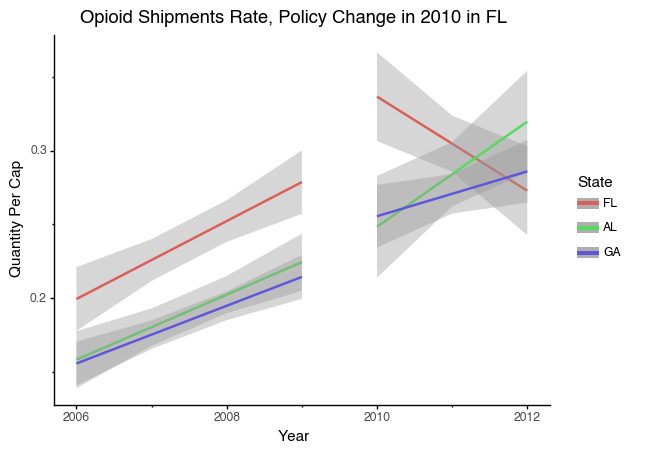
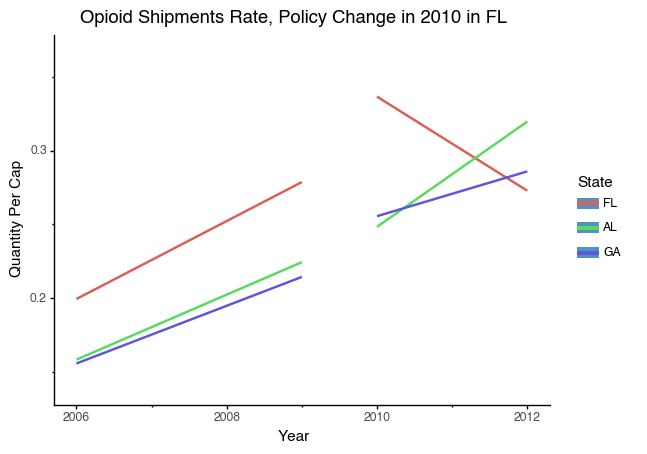
modify

Changed region(s): [[0.0927, 0.3392, 0.4637, 0.8634], [0.5564, 0.1233, 0.8346, 0.6167], [0.8964, 0.4317, 0.9274, 0.5859]]

diff --git a/10_code/Shipments-allCode.py b/10_code/Shipments-allCode.py
@@ -35,13 +35,13 @@ def readData(path):
 Transfer TRANSACTION_DATE to year & month
 '''
 def transferDate(df_shipments):
-    # Convert RTANSACTION_DATE to string in order to subset it
+# Convert RTANSACTION_DATE to string in order to subset it
     df_shipments['TRANSACTION_DATE'] = df_shipments['TRANSACTION_DATE'].astype(str)
-    # Subset the TRANSACTION_DATE, and get YEAR and Month
+# Subset the TRANSACTION_DATE, and get YEAR and Month
     df_shipments['YEAR'] = df_shipments['TRANSACTION_DATE'].apply(lambda x: x[-4:])
     df_shipments['MONTH'] = df_shipments['TRANSACTION_DATE'].apply(lambda x: x[-8:-6])
-    # Convert to int, in order to use PeriodIndex
-    # Create a new col as YYYY-MM
+# Convert to int, in order to use PeriodIndex
+# Create a new col as YYYY-MM
     df_shipments['YEAR'] = df_shipments['YEAR'].astype(int)
     df_shipments['MONTH'] = df_shipments['MONTH'].astype(int)
     df_shipments['TRANSACTION_TIME'] = pd.PeriodIndex(year=df_shipments["YEAR"], month=df_shipments["MONTH"], freq="m")
@@ -61,7 +61,7 @@ Normalization for Quantity
 '''
 # Normalize the quantity
 def normalize(shipment_grouped):
-    shipment_grouped['QUANTITY_PERCAP'] = shipment_grouped['QUANTITY']/shipment_FL_grouped['POP']
+    shipment_grouped['QUANTITY_PERCAP'] = shipment_grouped['QUANTITY']/shipment_grouped['POP']
     shipment_grouped['POST'] = (shipment_grouped.YEAR > 2009)*1
     return shipment_grouped
 
@@ -130,7 +130,6 @@ shipment_FL_grouped = groupBy(shipment_FL_merged)
 
 # normalize
 normalize(shipment_FL_grouped)
-shipment_FL_grouped.head()
 
 # Plot
 plot(shipment_FL_grouped, 'FL')
@@ -166,7 +165,6 @@ shipment_AL_grouped = groupBy(shipment_AL_merged)
 
 # normalize
 normalize(shipment_AL_grouped)
-shipment_AL_grouped.head()
 
 # Plot
 plot(shipment_AL_grouped, 'AL')
@@ -206,22 +204,23 @@ shipment_GA_grouped = groupBy(shipment_GA_merged)
 
 # normalize
 normalize(shipment_GA_grouped)
-shipment_GA_grouped.head()
+
 
 # Plot
-plot(shipment_GA_grouped, 'AL')
-
+plot(shipment_GA_grouped, 'GA')
 
 
 
 ############## Diff-in-diff plot (FL, AL, GA) ##################
+
+# Diff-in-diff plot for three states
 prePost = (ggplot(aes(x = 'YEAR', y = 'QUANTITY_PERCAP', group = 'POST', color = 'BUYER_STATE'))
            # Florida
-           +geom_smooth(method = 'lm', data = shipment_FL_grouped)
+           +geom_smooth(method = 'lm', fill = None, data = shipment_FL_grouped)
            # Alabama
-           +geom_smooth(method = 'lm', data = shipment_AL_grouped)
+           +geom_smooth(method = 'lm', fill = None, data = shipment_AL_grouped)
            # Georgia
-           +geom_smooth(method = 'lm', data = shipment_GA_grouped)
+           +geom_smooth(method = 'lm', fill = None, data = shipment_GA_grouped)
            # Change themes
            +theme_classic(base_family = "Helvetica")
            # change labels
@@ -231,3 +230,21 @@ prePost = (ggplot(aes(x = 'YEAR', y = 'QUANTITY_PERCAP', group = 'POST', color =
                  color = "State")
           )
 prePost.save(f'/Users/ZifanPeng/Desktop/estimating-impact-of-opioid-prescription-regulations-team-2/30_results/Diff-in-diff.png')
+
+# Diff-in-diff plot for treatment(FL) and control(AL & GA)
+# Make all the counties in AL & GA a county pool
+shipment_AL_GA = pd.concat([shipment_AL_grouped, shipment_GA_grouped])
+prePost2 = (ggplot(aes(x = 'YEAR', y = 'QUANTITY_PERCAP', group = 'POST', color = 'BUYER_STATE'))
+           # Florida
+           +geom_smooth(method = 'lm', fill = None, data = shipment_FL_grouped)
+           # AL & GA
+           +geom_smooth(method = 'lm', fill = None,data = shipment_AL_GA)
+           # Change themes
+           +theme_classic(base_family = "Helvetica")
+           # change labels
+           +labs(title = "Opioid Shipments Rate, Policy Change in 2010 in FL",
+                 x = "Year",
+                 y = "Quantity Per Cap",
+                 color = "State")
+          )
+prePost2.save(f'/Users/ZifanPeng/Desktop/estimating-impact-of-opioid-prescription-regulations-team-2/30_results/Diff-in-diff2.png')
